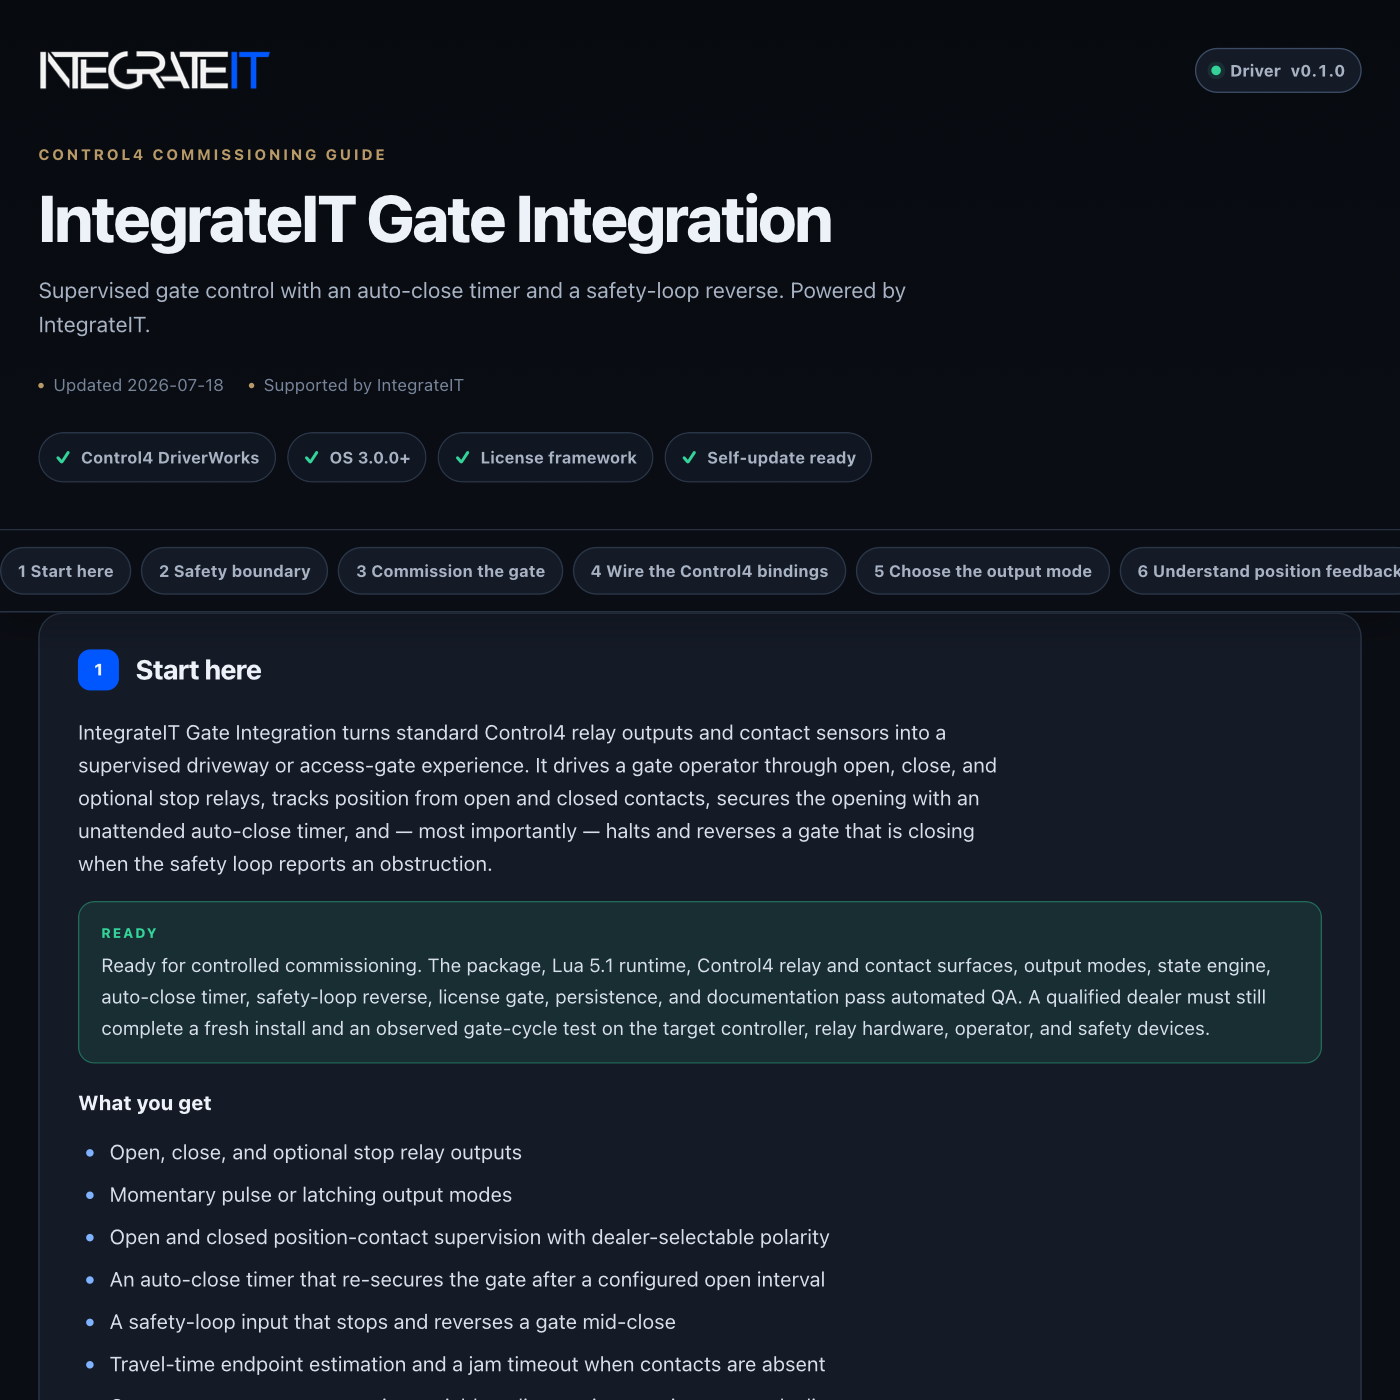
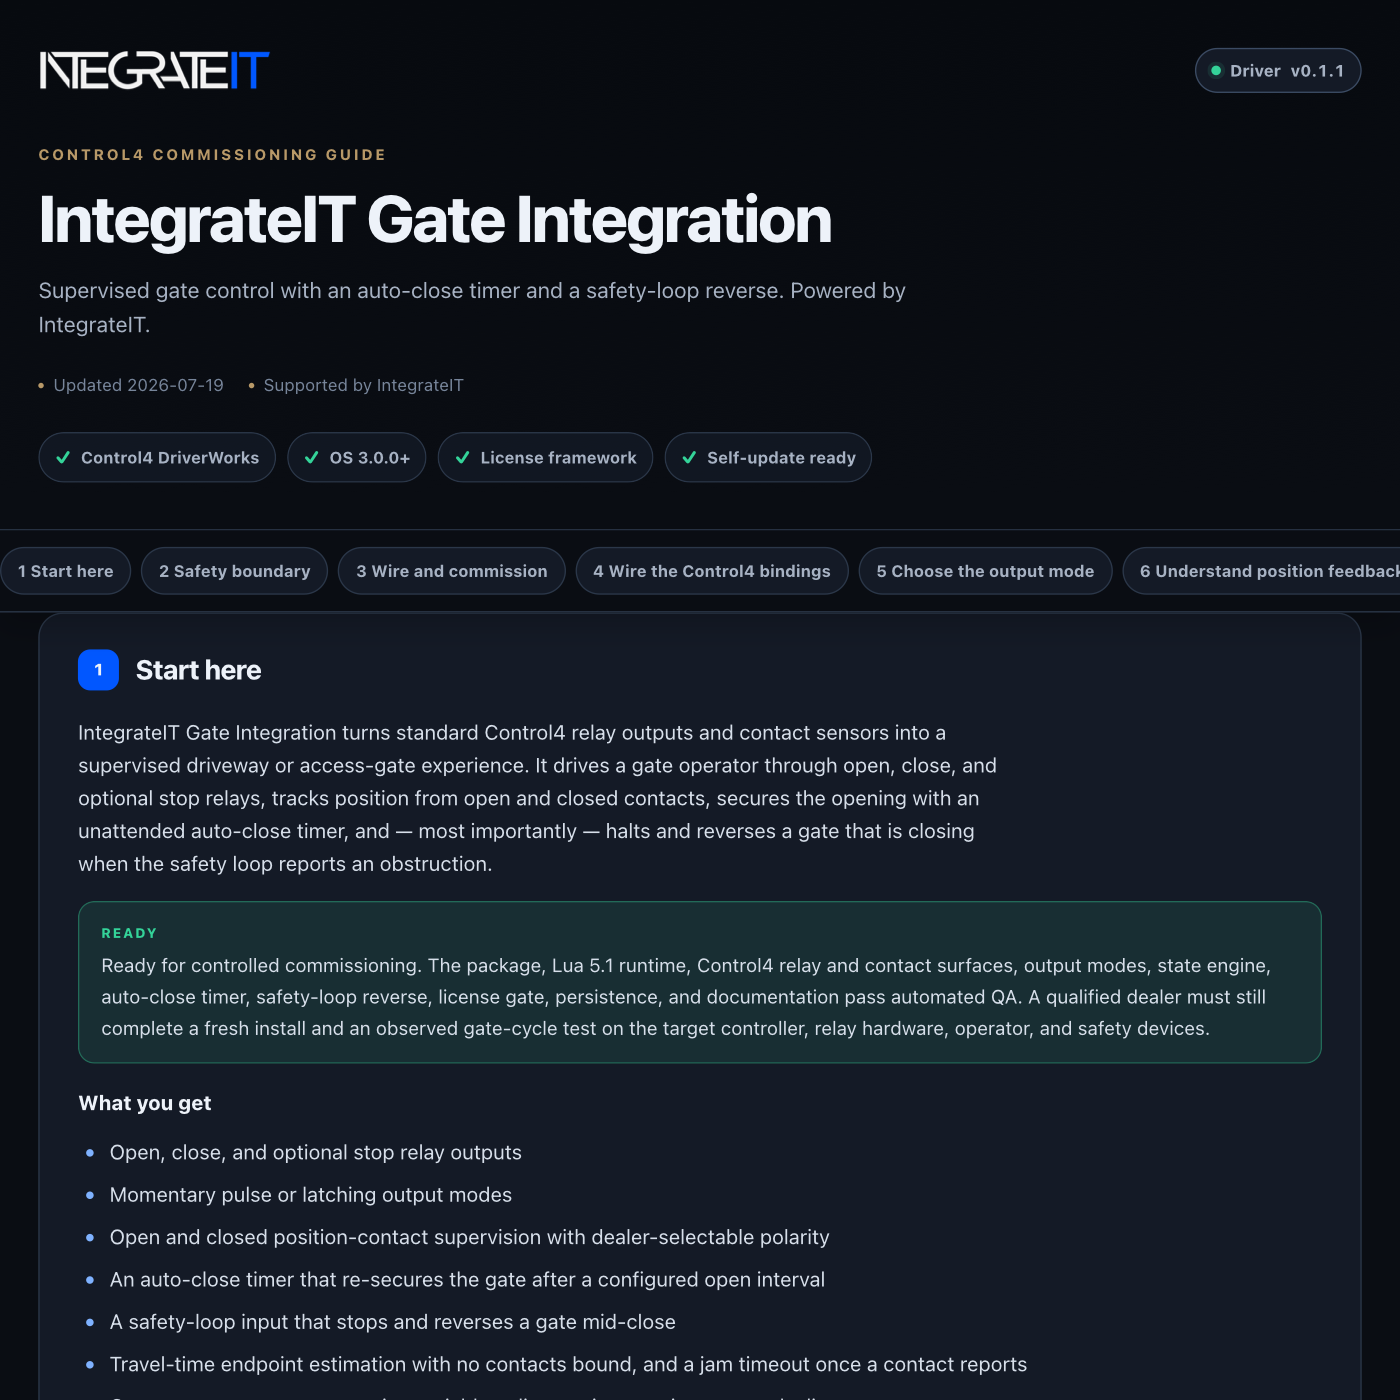
control4: publish driver channel (integrateit_gate_integration 0.1.2)

Changed region(s): [[0.2764, 0.3993, 1.0, 0.43], [0.3071, 0.9521, 0.7371, 0.9829]]

diff --git a/control4/integrateit_gate_integration/documentation.html b/control4/integrateit_gate_integration/documentation.html
@@ -179,13 +179,13 @@ td code{white-space:normal}
     <div class="wrap">
       <div class="brandbar">
[1 lines of base64/hex data omitted]
-        <span class="version"><span class="word">Driver</span> v0.1.1</span>
+        <span class="version"><span class="word">Driver</span> v0.1.2</span>
       </div>
       <p class="eyebrow">Control4 commissioning guide</p>
       <h1>IntegrateIT Gate Integration</h1>
       <p class="sub">Supervised gate control with an auto-close timer and a safety-loop reverse. Powered by IntegrateIT.</p>
       <div class="meta">
-        <span>Updated 2026-07-19</span>
+        <span>Updated 2026-07-26</span>
         <span>Supported by IntegrateIT</span>
       </div>
       <div class="readiness" aria-label="Driver capabilities">
@@ -198,7 +198,7 @@ td code{white-space:normal}
   </header>
 
   <div class="toc-wrap">
-    <nav class="toc wrap" aria-label="Documentation sections"><a href="#overview">1 Start here</a><a href="#safety">2 Safety boundary</a><a href="#setup">3 Commission the gate</a><a href="#connections">4 Wire the Control4 bindings</a><a href="#outputs">5 Choose the output mode</a><a href="#contacts">6 Understand position feedback</a><a href="#safety-loop">7 The safety loop</a><a href="#auto-close">8 Auto-close</a><a href="#programming">9 Program the project</a><a href="#status">10 Read status at a glance</a><a href="#troubleshooting">11 Troubleshoot methodically</a><a href="#trust">12 Ownership, privacy, and licensing</a><a href="#reference">R Reference</a><a href="#licensing">L Licensing</a><a href="#updates">U Automatic updates</a><a href="#changelog">V Version history</a></nav>
+    <nav class="toc wrap" aria-label="Documentation sections"><a href="#overview">1 Start here</a><a href="#safety">2 Safety boundary</a><a href="#setup">3 Wire and commission</a><a href="#connections">4 Wire the Control4 bindings</a><a href="#outputs">5 Choose the output mode</a><a href="#contacts">6 Understand position feedback</a><a href="#safety-loop">7 The safety loop</a><a href="#auto-close">8 Auto-close</a><a href="#programming">9 Program the project</a><a href="#status">10 Read status at a glance</a><a href="#troubleshooting">11 Troubleshoot methodically</a><a href="#trust">12 Ownership, privacy, and licensing</a><a href="#reference">R Reference</a><a href="#licensing">L Licensing</a><a href="#updates">U Automatic updates</a><a href="#changelog">V Version history</a></nav>
   </div>
 
   <main class="wrap">
@@ -213,7 +213,7 @@ td code{white-space:normal}
     <li>Open and closed position-contact supervision with dealer-selectable polarity</li>
     <li>An auto-close timer that re-secures the gate after a configured open interval</li>
     <li>A safety-loop input that stops and reverses a gate mid-close</li>
-    <li>Travel-time endpoint estimation and a jam timeout when contacts are absent</li>
+    <li>Travel-time endpoint estimation with no contacts bound, and a jam timeout once a contact reports</li>
     <li>Composer events, programming variables, diagnostics, persistence, and a license gate</li>
   </ul>
 </section>
@@ -232,13 +232,13 @@ td code{white-space:normal}
 </section>
 
 <section class="card" id="setup" data-card="setup">
-  <h2><span class="n">3</span> Commission the gate</h2>
+  <h2><span class="n">3</span> Wire and commission</h2>
   <ol class="steps">
     <li>Add <b>IntegrateIT Gate Integration</b> to the room that contains the gate.</li>
     <li>Bind the relay outputs: <b>Open Output</b> (1), <b>Close Output</b> (2), and, if the operator has one, <b>Stop Output</b> (3). Set <b>Output Mode</b> to match the operator interface.</li>
     <li>Bind the feedback inputs: <b>Open Position Contact</b> (4), <b>Closed Position Contact</b> (5), and <b>Safety Loop Input</b> (6). Set <b>Contact Active State</b> and <b>Safety Loop Active State</b> to match the wiring.</li>
-    <li>Set <b>Pulse Length</b> for momentary operators and <b>Travel Time</b> to the real full-open travel time.</li>
-    <li>Leave <b>Auto-Close</b> at zero for manual operation, or set a hold interval to secure the gate automatically.</li>
+    <li>Set <b>Pulse Length (ms)</b> for momentary operators and <b>Travel Time (s)</b> to the real full-open travel time.</li>
+    <li>Leave <b>Auto-Close (s)</b> at zero for manual operation, or set a hold interval to secure the gate automatically.</li>
     <li>Run <b>Print Diagnostic Summary</b> and confirm the configuration reads back correctly.</li>
     <li>Clear the work area and observe open, stop, close, and a deliberate safety-loop obstruction during a close — the gate must reverse to open.</li>
   </ol>
@@ -256,24 +256,24 @@ td code{white-space:normal}
     <tr><td><code>5</code></td><td>Closed Position Contact</td><td>Active when the gate is fully closed</td></tr>
     <tr><td><code>6</code></td><td>Safety Loop Input</td><td>Active when an obstruction is present in the gate path</td></tr>
   </table>
-  <p>Relay outputs energize with a <code>CLOSE</code> command and release with <code>OPEN</code>. In <b>Momentary</b> mode each output is pulsed for <b>Pulse Length</b> and then released; in <b>Latching</b> mode the direction output is held until the opposite direction or a Stop releases it. The driver always releases the opposite direction before energizing a new one (break-before-make).</p>
+  <p>Relay outputs energize with a <code>CLOSE</code> command and release with <code>OPEN</code>. In <b>Momentary</b> mode each output is pulsed for <b>Pulse Length (ms)</b> and then released; in <b>Latching</b> mode the direction output is held until the opposite direction or a Stop releases it. The driver always releases the opposite direction before energizing a new one (break-before-make).</p>
 </section>
 
 <section class="card" id="outputs" data-card="outputs">
   <h2><span class="n">5</span> Choose the output mode</h2>
   <table>
     <tr><th>Mode</th><th>Output behavior</th><th>Typical use</th></tr>
-    <tr><td><code>Momentary</code></td><td>Energize, then release after Pulse Length</td><td>Operators with a step or dry-contact button input</td></tr>
+    <tr><td><code>Momentary</code></td><td>Energize, then release after Pulse Length (ms)</td><td>Operators with a step or dry-contact button input</td></tr>
     <tr><td><code>Latching</code></td><td>Hold the direction output until released</td><td>Operators that require a maintained open or close contact</td></tr>
   </table>
-  <p>The optional <b>Stop Output</b> is always pulsed on a Stop command — even in <b>Latching</b> mode — and the open and close outputs are released first. A momentary Stop is deliberate: a latched Stop relay would stay held closed and inhibit every later open or close, so Stop never latches regardless of the Output Mode. If the operator has no stop input, leave binding 3 unbound and use Open or Close to change direction.</p>
+  <p>The optional <b>Stop Output</b> is always pulsed on a Stop command — even in <b>Latching</b> mode — and the open and close outputs are released first. A momentary Stop is deliberate: a latched Stop relay would stay held closed and inhibit every later open or close, so Stop never latches regardless of the Output Mode. If the operator has no stop input, leave binding 3 unbound and use Open or Close to change direction — but know what Stop then means: with binding 3 unbound, <b>Stop Gate</b> releases the direction outputs and marks the gate <b>Stopped</b>, which physically halts a Latching operator but not a Momentary one that has already been pulsed into motion. On that topology the reported <code>Stopped</code> is the state the driver commanded, not a stop it observed.</p>
 </section>
 
 <section class="card" id="contacts" data-card="contacts">
   <h2><span class="n">6</span> Understand position feedback</h2>
-  <p>Position contacts are authoritative. <b>Contact Active State</b> selects the electrical state that means an endpoint is reached: <code>Contact Closed</code> means the circuit is active when closed; <code>Contact Open</code> means the circuit is active when open. When the open-position contact reports active, the gate is Open; when the closed-position contact reports active, the gate is Closed.</p>
+  <p>Position contacts are authoritative. <b>Contact Active State</b> selects the electrical state that means an endpoint is reached: <code>Contact Closed</code> means the circuit is active when closed; <code>Contact Open</code> means the circuit is active when open. When the open-position contact reports active, the gate is Open; when the closed-position contact reports active, the gate is Closed. If both position contacts report active at once, the driver refuses to trust either: it cancels travel supervision, marks the gate <b>Stopped</b>, and writes <code>Open and closed position contacts are active simultaneously</code> to <b>Last Error</b> as a wiring fault to correct.</p>
   <p><code>STATE_OPENED</code> and <code>STATE_CLOSED</code> are the bind-time snapshots Director replays so state is correct at startup. They set the supervised state without firing transition events. Later live <code>OPENED</code> / <code>CLOSED</code> edges fire the matching event.</p>
-  <p>With no position contacts bound, the supervised state is estimated from <b>Travel Time</b>: a commanded open or close resolves to its endpoint after the configured travel time. When a position contact is bound, Travel Time doubles as a jam timeout — if the expected endpoint contact is not active when travel time elapses, the gate is marked <b>Stopped</b> and <b>Last Error</b> explains the jam.</p>
+  <p>With no position contacts bound, the supervised state is estimated from <b>Travel Time (s)</b>: a commanded open or close resolves to its endpoint after the configured travel time. On a contactless install these endpoints are inferred from elapsed time, not measured — the driver reports the estimate as <code>Open</code> or <code>Closed</code> but cannot confirm the gate physically arrived; anything claiming otherwise would be faking it. Bind the position contacts whenever the operator exposes them. Once a position contact has reported its state at least once, Travel Time doubles as a jam timeout — if that endpoint contact is not active when travel time elapses, the gate is marked <b>Stopped</b> and <b>Last Error</b> explains the jam. A contact that is bound but has never reported cannot be checked, so travel still resolves to the estimate until its first edge arrives.</p>
   <p>A reboot does not preserve motion. A controller restart while the gate is opening or closing restores the state as <b>Unknown</b> rather than a stale Opening/Closing — no travel timer or relay drive survives a reboot — and the boot feedback poll, the next command, or a position-contact edge re-resolves the real position.</p>
 </section>
 
@@ -289,7 +289,7 @@ td code{white-space:normal}
 
 <section class="card" id="auto-close" data-card="auto-close">
   <h2><span class="n">8</span> Auto-close</h2>
-  <p>Set <b>Auto-Close</b> to zero for manual operation. When it is greater than zero and the gate reaches fully open, the driver fires <b>Auto-Close Scheduled</b> and starts a timer; when the timer elapses it issues a close (subject to the safety loop). <b>Cancel Auto-Close</b> or a <b>Stop Gate</b> cancels a pending auto-close without moving the gate. Reaching the closed position also clears any pending auto-close.</p>
+  <p>Set <b>Auto-Close (s)</b> to zero for manual operation. When it is greater than zero and the gate reaches fully open, the driver fires <b>Auto-Close Scheduled</b> and starts a timer; when the timer elapses it issues a close (subject to the safety loop). <b>Cancel Auto-Close</b> clears a pending auto-close without touching the gate; <b>Stop Gate</b> also clears it while it halts motion. Reaching the closed position clears any pending auto-close as well.</p>
   <p>If the safety loop is active at the moment the auto-close fires, the close is refused and the gate stays open — an obstruction is never driven into. The auto-close automatically re-arms when the loop clears, so the gate still re-secures once the opening is clear. A re-asserting or bouncing open-position contact does not restart the countdown; only a genuine transition into fully open schedules a new auto-close.</p>
 </section>
 
@@ -311,7 +311,13 @@ td code{white-space:normal}
     <tr><td><code>IS_MOVING</code></td><td>BOOL</td><td>Supervised state is Opening or Closing</td></tr>
     <tr><td><code>LAST_ACTION</code></td><td>STRING</td><td>Most recent requested action and its source</td></tr>
   </table>
-  <p><b>Open Gate</b>, <b>Close Gate</b>, <b>Stop Gate</b>, and <b>Cancel Auto-Close</b> are available as both Composer commands and Actions. Control commands are gated by the license: under Strict enforcement an unlicensed controller blocks every physical output; the default Lenient mode allows commissioning while <code>License Status</code> carries the nag.</p>
+  <p>Three starting points, wired with this driver's own events, commands, and variables:</p>
+  <ul>
+    <li><b>When Safety Loop Triggered fires → announce it and light the driveway.</b> The same event covers both cases: an obstruction detected on the loop, and a <b>Close Gate</b> that was refused because the loop is still active. Read <b>Last Error</b> to tell them apart.</li>
+    <li><b>When Gate Opened fires → run an arrival scene.</b> It fires only when the supervised state actually reaches <code>Open</code> — from the open-position contact, or from the travel-time estimate on a contactless install.</li>
+    <li><b>When your Goodnight event runs → call Close Gate, then check <code>IS_OPEN</code>.</b> <code>IS_OPEN</code> stays true through <code>Opening</code>, <code>Open</code>, <code>Stopped</code>, and <code>Unknown</code>, so it is the safe "not confirmed closed" signal to gate security programming on; a close refused by the safety loop leaves it true and writes the reason to <b>Last Error</b>.</li>
+  </ul>
+  <p><b>Open Gate</b>, <b>Close Gate</b>, <b>Stop Gate</b>, and <b>Cancel Auto-Close</b> are available as both Composer commands and Actions; <b>Print Diagnostic Summary</b> and <b>Reset Gate State</b> are Actions only. Control commands are gated by the license: under Strict enforcement an unlicensed controller blocks every physical output; the default Lenient mode allows commissioning while <code>License Status</code> carries the nag.</p>
 </section>
 
 <section class="card" id="status" data-card="status">
@@ -323,21 +329,24 @@ td code{white-space:normal}
     <tr><td><code>Last Error</code></td><td><code>None</code></td><td>Correct the safety, jam, or command issue shown</td></tr>
     <tr><td><code>License Status</code></td><td>Activated, or Lenient during commissioning</td><td>Enter a key before selecting Strict enforcement</td></tr>
   </table>
-  <p><b>Print Diagnostic Summary</b> writes state, output mode, auto-close and travel timing, pulse length, safety-loop status, and IntegrateIT identity to the Lua output window. It never prints the license key.</p>
+  <p><b>Print Diagnostic Summary</b> writes state, output mode, auto-close and travel timing, pulse length, safety-loop status, and IntegrateIT identity to the Lua output window. It never prints the license key. <b>Reset Gate State</b> clears the cached feedback, the safety flag, and the action history, returns <b>Gate State</b> to <code>Unknown</code>, and waits for feedback — the next command or a position-contact edge re-resolves the real position. Use it after correcting a wiring fault or an operator swap.</p>
 </section>
 
 <section class="card" id="troubleshooting" data-card="troubleshooting">
   <h2><span class="n">11</span> Troubleshoot methodically</h2>
   <table>
     <tr><th>Symptom</th><th>Likely cause</th><th>Resolution</th></tr>
-    <tr><td>No relay command</td><td>Strict unlicensed, or the gate is already at the requested endpoint</td><td>Read <code>Gate State</code>, <code>Last Error</code>, and <code>License Status</code></td></tr>
+    <tr><td>No relay command</td><td>Strict unlicensed, or the gate is already at — or already moving toward — the requested endpoint</td><td>Read <code>Gate State</code>, <code>Last Error</code>, and <code>License Status</code></td></tr>
     <tr><td>Gate never reverses on obstruction</td><td>Safety-loop polarity wrong, or loop wired to the operator only</td><td>Set <code>Safety Loop Active State</code>; wire the loop to binding 6</td></tr>
     <tr><td>Close is refused</td><td>The safety loop is latched active</td><td>Clear the obstruction; confirm the loop returns to its inactive state</td></tr>
     <tr><td>State reads backwards</td><td>Wrong position-contact polarity</td><td>Change <code>Contact Active State</code></td></tr>
+    <tr><td><code>Last Error</code> reads "active simultaneously"</td><td>Open and closed position contacts both report active (miswire)</td><td>Correct contact wiring or polarity; the gate holds <code>Stopped</code> until only one reports</td></tr>
     <tr><td>Gate marked Stopped after a command</td><td>Position contact not reached within travel time (jam)</td><td>Observe travel, inspect contact alignment, set a realistic Travel Time</td></tr>
     <tr><td>Auto-close never fires</td><td>Auto-Close is zero, or the gate never reached fully open</td><td>Set a non-zero interval; confirm the open-position feedback</td></tr>
+    <tr><td>Gate stuck in a fault state</td><td>A miswire or jam left the gate <code>Stopped</code> or <code>Unknown</code></td><td>Correct the physical fault, then run <b>Reset Gate State</b> to clear feedback and history</td></tr>
   </table>
   <div class="note warn">Do not increase Travel Time merely to hide an intermittent contact or a slow operator. Correct the physical problem first.</div>
+  <p>If a symptom survives every check above, run <b>Print Diagnostic Summary</b>, capture the Lua output window, and send it to support@integrateit.tech · (913) 804-7575.</p>
 </section>
 
 <section class="card" id="trust" data-card="trust">
@@ -347,7 +356,7 @@ td code{white-space:normal}
   <p>Lenient mode allows commissioning without an activated key and keeps <code>License Status</code> visible. Strict mode blocks all driver control until the Ops Portal has minted and validated a key for that controller. Installing this package does not itself mint or activate a controller license.</p>
 <section class="card" id="reference" data-card="reference">
   <h2><span class="n">R</span> Reference</h2>
-  <p>Generated from the driver manifest at build time — always matches this build (v0.1.1).</p>
+  <p>Generated from the driver manifest at build time — always matches this build (v0.1.2).</p>
   <h3>Properties</h3>
   <table>
     <tr><th>Property</th><th>Type</th><th>Default</th><th>Description</th></tr>
@@ -458,7 +467,9 @@ td code{white-space:normal}
     <section class="card" id="changelog" data-card="changelog">
   <h2><span class="n">V</span> Version history</h2>
   <div class="chg">
-    <div class="rel"><b>v0.1.1</b> <span class="pill green">current</span><span class="d">2026-07-19</span>
+    <div class="rel"><b>v0.1.2</b> <span class="pill green">current</span><span class="d">2026-07-26</span>
+      <ul><li>Documentation rebuilt to the IntegrateIT commissioning-guide standard: uniform sections, honest contracts, verified claim-by-claim against the code.</li></ul></div>
+    <div class="rel"><b>v0.1.1</b><span class="d">2026-07-19</span>
       <ul><li>Hardware-test-worthy polish: correctness, edge-case, timer-hygiene and hardware-readiness fixes with a regression test added per fix</li><li>Shared runtime: a transient license-server error no longer de-licenses a paying controller; repeating-timer callbacks are crash-guarded</li></ul></div>
     <div class="rel"><b>v0.1.0</b><span class="d">2026-07-18</span>
       <ul><li>Initial scaffold (template: contact-relay).</li></ul></div>

diff --git a/control4/integrateit_gate_integration/CHANGELOG.md b/control4/integrateit_gate_integration/CHANGELOG.md
@@ -1,5 +1,8 @@
 # Changelog — IntegrateIT Gate Integration
 
+## [0.1.2] - 2026-07-26
+- Documentation rebuilt to the IntegrateIT commissioning-guide standard: uniform sections, honest contracts, verified claim-by-claim against the code.
+
 ## [0.1.1] - 2026-07-19
 - Hardware-test-worthy polish: correctness, edge-case, timer-hygiene and hardware-readiness fixes with a regression test added per fix
 - Shared runtime: a transient license-server error no longer de-licenses a paying controller; repeating-timer callbacks are crash-guarded
